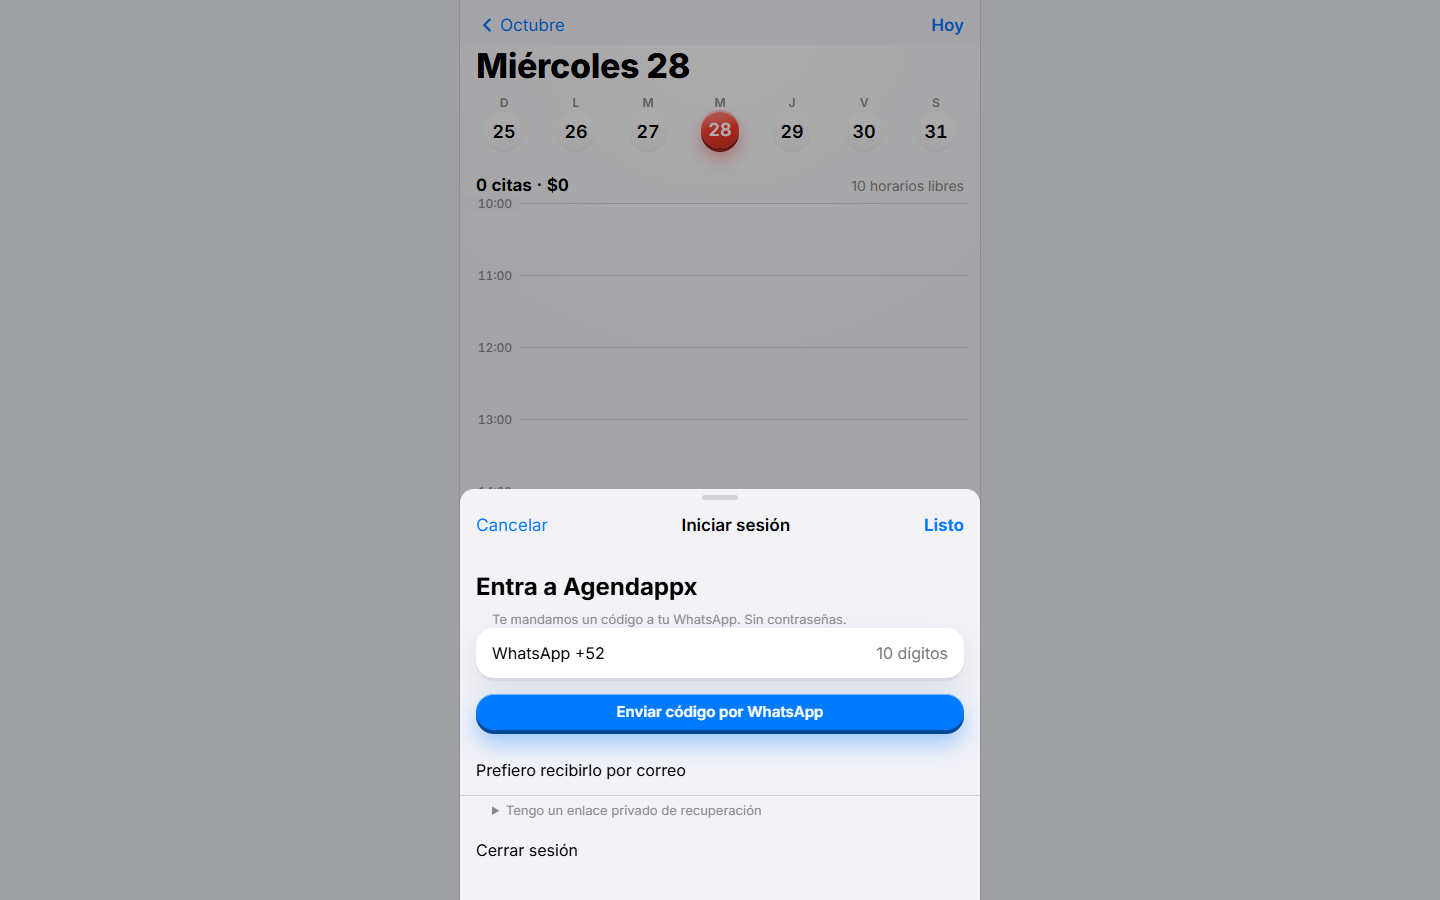
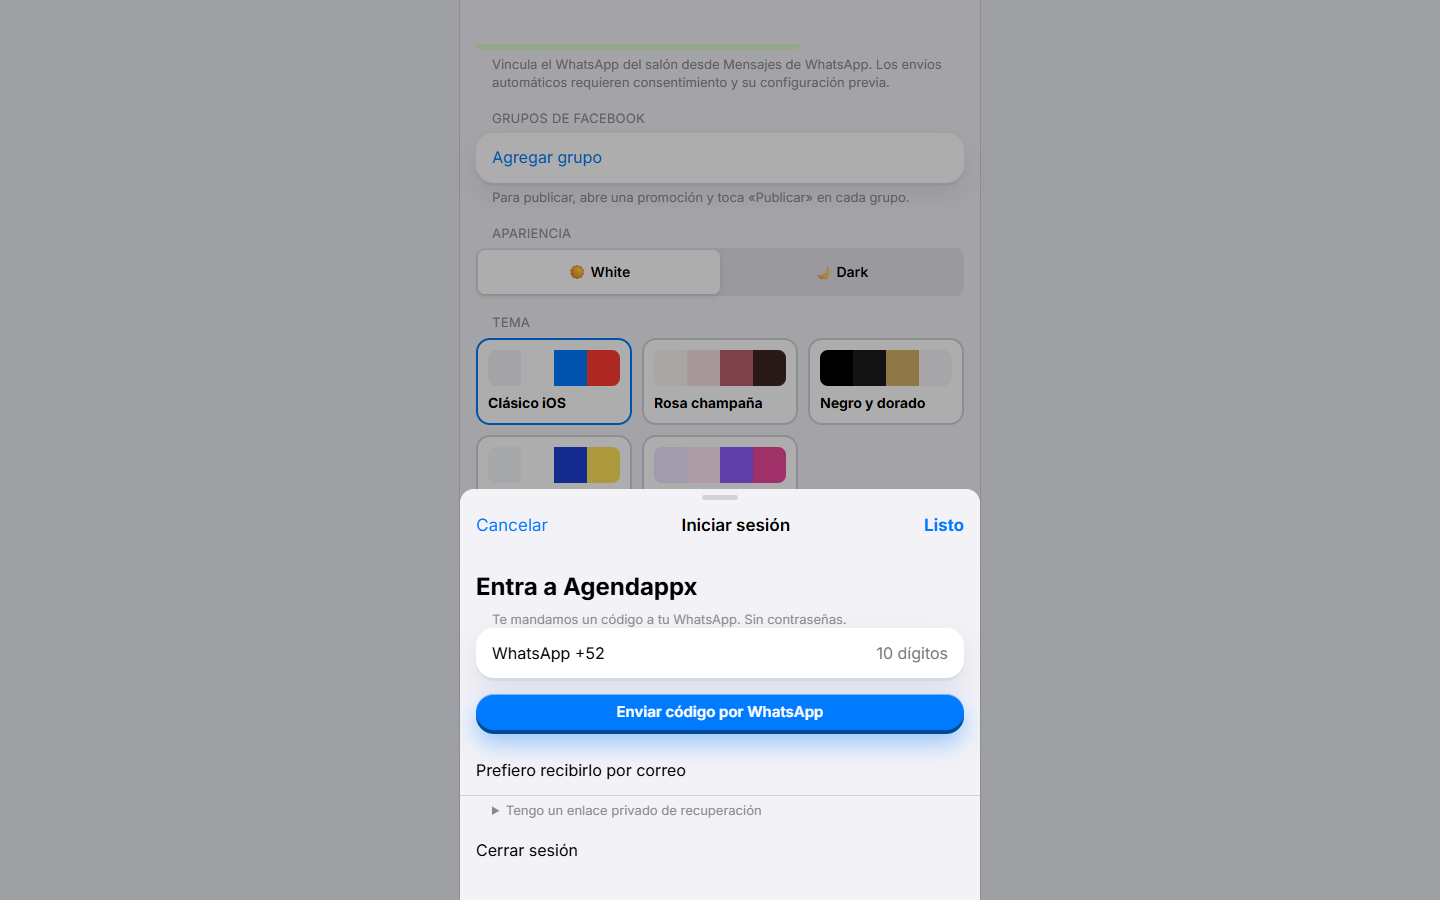
Verificar entrada al login desde los controles de Ajustes

diff --git a/ritmo/docs/LOGIN-WHATSAPP.md b/ritmo/docs/LOGIN-WHATSAPP.md
@@ -4,7 +4,7 @@ Rama codex/agendappx-siguiente-version, PR #7. Fuente CUENTAS.md y WHATSAPP-AUTO
 
 ## Comportamiento entregado
 
-La pantalla «Iniciar sesión» pide diez dígitos mexicanos y envía un código de seis dígitos. El SDK real de Supabase conserva y renueva la sesión; no hay contraseñas. El intercambio pasa por rutas propias /api/acceso/solicitar y /verificar que usan exclusivamente la llave publicable y create_user:false. No se crean usuarios ni se conceden membresías por escribir un teléfono o correo.
+Ruta visible actual: Ajustes → Sincronización → Iniciar sesión. La bienvenida completa pertenece a la siguiente etapa del encargo. La pantalla «Iniciar sesión» pide diez dígitos mexicanos y envía un código de seis dígitos. El SDK real de Supabase conserva y renueva la sesión; no hay contraseñas. El intercambio pasa por rutas propias /api/acceso/solicitar y /verificar que usan exclusivamente la llave publicable y create_user:false. No se crean usuarios ni se conceden membresías por escribir un teléfono o correo.
 
 El servicio Railway recibe POST /hook/codigo directamente de Supabase. Valida Standard Webhooks sobre el cuerpo exacto, timestamp ±5 minutos, id y firma v1; admite el payload real user + sms.otp, con sms.phone en versiones recientes. No admite un endpoint libre {telefono,codigo,texto}. Solo envía el texto fijo de CUENTAS.md. Antes de enviar exige una solicitud reciente creada por el servidor; así llamar directamente a /auth/v1/otp no evita el límite por IP. Phone change necesita además el ticket del mismo usuario autenticado.
 
